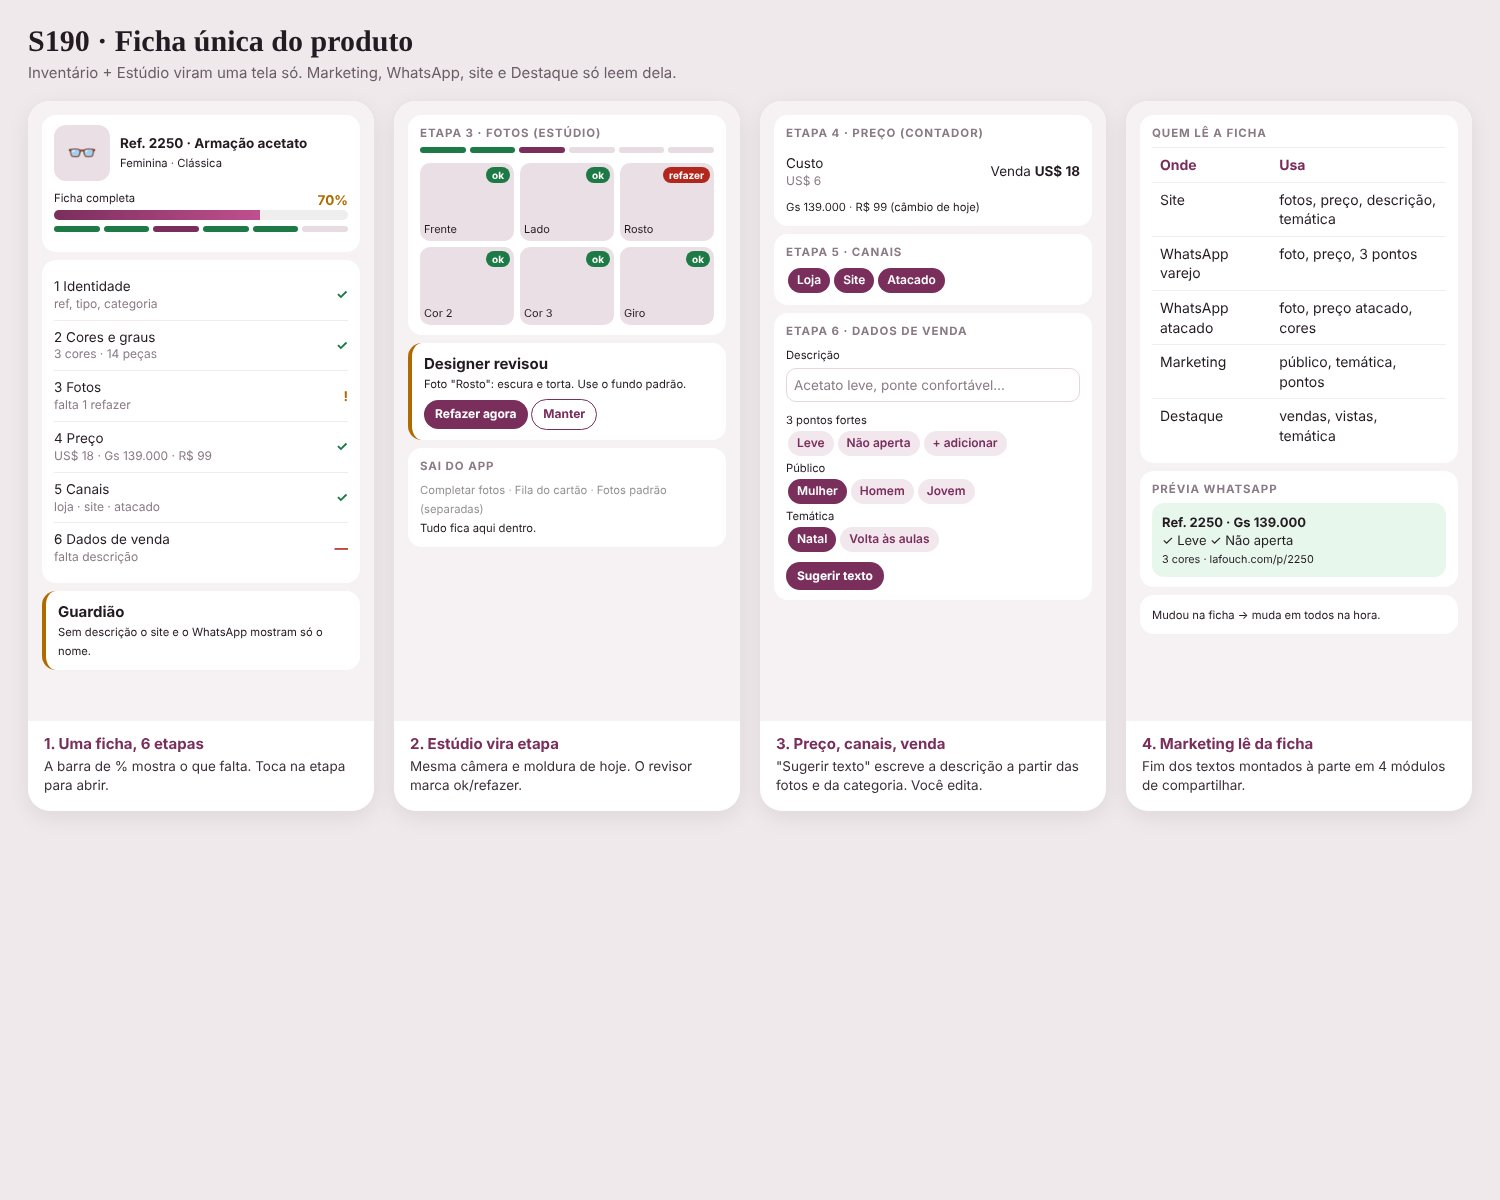
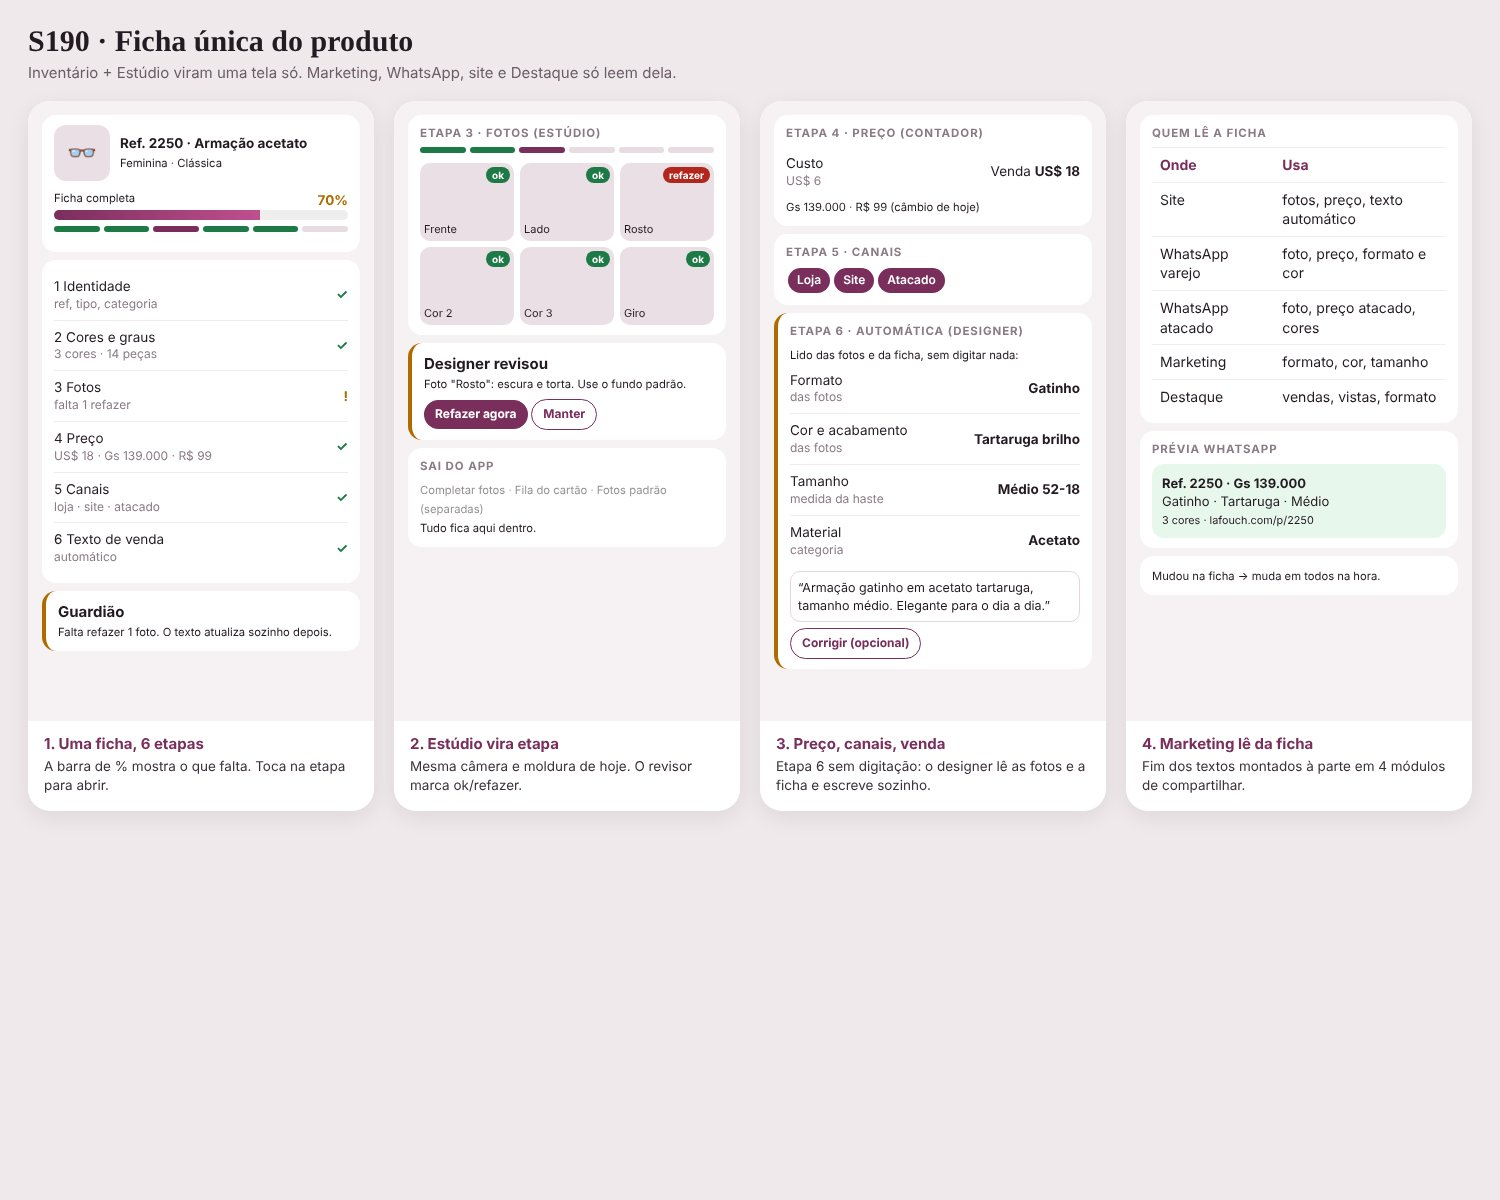
esboço S190 v2 etapa 6 automática
Claude-Session: https://claude.ai/code/session_01Vj5GPR2QjandaFr6ascRKC

diff --git a/work/s190/m1.html b/work/s190/m1.html
@@ -28,8 +28,8 @@ body{margin:0;background:#efe9ec;font:15px/1.4 Inter,system-ui,sans-serif;color:
 <div class="sl"><span>3 Fotos<small>falta 1 refazer</small></span><span class="wa">!</span></div>
 <div class="sl"><span>4 Preço<small>US$ 18 · Gs 139.000 · R$ 99</small></span><span class="ok">✓</span></div>
 <div class="sl"><span>5 Canais<small>loja · site · atacado</small></span><span class="ok">✓</span></div>
-<div class="sl"><span>6 Dados de venda<small>falta descrição</small></span><span class="bad">—</span></div></div>
-<div class="c gd"><b class="t">Guardião</b><small>Sem descrição o site e o WhatsApp mostram só o nome.</small></div>
+<div class="sl"><span>6 Texto de venda<small>automático</small></span><span class="ok">✓</span></div></div>
+<div class="c gd"><b class="t">Guardião</b><small>Falta refazer 1 foto. O texto atualiza sozinho depois.</small></div>
 </div><div class="cap"><b>1. Uma ficha, 6 etapas</b>A barra de % mostra o que falta. Toca na etapa para abrir.</div></div>
 
 <div class="f"><div class="ph">
@@ -42,22 +42,23 @@ body{margin:0;background:#efe9ec;font:15px/1.4 Inter,system-ui,sans-serif;color:
 <div class="f"><div class="ph">
 <div class="c"><h5>Etapa 4 · Preço (Contador)</h5><div class="sl"><span>Custo<small>US$ 6</small></span><span>Venda <b>US$ 18</b></span></div><small>Gs 139.000 · R$ 99 (câmbio de hoje)</small></div>
 <div class="c"><h5>Etapa 5 · Canais</h5><span class="ch on">Loja</span><span class="ch on">Site</span><span class="ch on">Atacado</span></div>
-<div class="c"><h5>Etapa 6 · Dados de venda</h5><small>Descrição</small><div style="border:1px solid #e3d7de;border-radius:10px;padding:7px;margin:4px 0 8px;color:#8a7a85">Acetato leve, ponte confortável…</div>
-<small>3 pontos fortes</small><br><span class="ch">Leve</span><span class="ch">Não aperta</span><span class="ch">+ adicionar</span><br>
-<small>Público</small><br><span class="ch on">Mulher</span><span class="ch">Homem</span><span class="ch">Jovem</span><br>
-<small>Temática</small><br><span class="ch on">Natal</span><span class="ch">Volta às aulas</span>
-<div style="margin-top:8px"><span class="bt">Sugerir texto</span></div></div>
-</div><div class="cap"><b>3. Preço, canais, venda</b>"Sugerir texto" escreve a descrição a partir das fotos e da categoria. Você edita.</div></div>
+<div class="c gd"><h5>Etapa 6 · Automática (designer)</h5><small>Lido das fotos e da ficha, sem digitar nada:</small>
+<div class="sl"><span>Formato<small>das fotos</small></span><b>Gatinho</b></div>
+<div class="sl"><span>Cor e acabamento<small>das fotos</small></span><b>Tartaruga brilho</b></div>
+<div class="sl"><span>Tamanho<small>medida da haste</small></span><b>Médio 52-18</b></div>
+<div class="sl"><span>Material<small>categoria</small></span><b>Acetato</b></div>
+<div style="border:1px solid #e3d7de;border-radius:10px;padding:7px;margin-top:6px;font-size:12.5px">“Armação gatinho em acetato tartaruga, tamanho médio. Elegante para o dia a dia.”</div>
+<div style="margin-top:6px"><span class="bt o">Corrigir (opcional)</span></div></div></div><div class="cap"><b>3. Preço, canais, venda</b>Etapa 6 sem digitação: o designer lê as fotos e a ficha e escreve sozinho.</div></div>
 
 <div class="f"><div class="ph">
 <div class="c"><h5>Quem lê a ficha</h5>
 <table class="tbl"><tr><th>Onde</th><th>Usa</th></tr>
-<tr><td>Site</td><td>fotos, preço, descrição, temática</td></tr>
-<tr><td>WhatsApp varejo</td><td>foto, preço, 3 pontos</td></tr>
+<tr><td>Site</td><td>fotos, preço, texto automático</td></tr>
+<tr><td>WhatsApp varejo</td><td>foto, preço, formato e cor</td></tr>
 <tr><td>WhatsApp atacado</td><td>foto, preço atacado, cores</td></tr>
-<tr><td>Marketing</td><td>público, temática, pontos</td></tr>
-<tr><td>Destaque</td><td>vendas, vistas, temática</td></tr></table></div>
-<div class="c"><h5>Prévia WhatsApp</h5><div class="wa2"><b>Ref. 2250 · Gs 139.000</b><br>✓ Leve ✓ Não aperta<br><small>3 cores · lafouch.com/p/2250</small></div></div>
+<tr><td>Marketing</td><td>formato, cor, tamanho</td></tr>
+<tr><td>Destaque</td><td>vendas, vistas, formato</td></tr></table></div>
+<div class="c"><h5>Prévia WhatsApp</h5><div class="wa2"><b>Ref. 2250 · Gs 139.000</b><br>Gatinho · Tartaruga · Médio<br><small>3 cores · lafouch.com/p/2250</small></div></div>
 <div class="c"><small>Mudou na ficha → muda em todos na hora.</small></div>
 </div><div class="cap"><b>4. Marketing lê da ficha</b>Fim dos textos montados à parte em 4 módulos de compartilhar.</div></div>
 </div></body></html>

diff --git a/docs/MEMORIA-PROJETO.md b/docs/MEMORIA-PROJETO.md
@@ -1843,3 +1843,4 @@ Decisões do dono sobre a tela Venda confirmada (esboço "venda_confirmada_compr
 - 12/11 09:58 DONO: APROVADOS os 4 jeitos de designer+porteiro+guardião trabalharem juntos (porteiro roda as checagens visuais; esboço aprovado vira gabarito; guardião cuida da qualidade do catálogo; resumo semanal único) e o revisor no Marketing (posts/stories/cartões/vídeos) e no Estúdio (foto aprovada/refazer). Pediu mais melhorias; perguntou se Inventário e Estúdio estão separados e como juntar (cadastro do produto único que alimenta o marketing); pediu ESTUDAR O APP INTEIRO e guardar na memória (evitar colisões, botões repetidos, redundância, lixo).
 - 12/11 10:05 DONO pediu estudo do app → criado docs/APP-COMO-FUNCIONA.md (mapa, redundâncias, código morto). Proposta S190 FICHA ÚNICA do produto (Inventário+Estúdio → Marketing lê dela): aguardando ESBOÇO/aprovação.
 - 12/11 10:10 ESBOÇO S190 FICHA ÚNICA (work/s190/s190.jpg): 6 etapas (identidade, cores/graus, fotos=Estúdio com revisor ok/refazer, preço Contador US$→Gs/R$, canais loja/site/atacado, dados de venda: descrição+3 pontos+público+temática+Sugerir texto); barra % + guardião; site/WhatsApp varejo e atacado/Marketing/Destaque só leem da ficha; somem Completar fotos, Fila do cartão, Fotos padrão e os 4 compartilhar viram 1. Aguardando aprovação.
+- 12/11 10:08 DONO: etapa 6 manual é inútil, quer o mais automático possível com o designer. S190 v2: etapa 6 automática (designer lê formato e cor/acabamento das fotos, tamanho da medida da haste, material da categoria e escreve o texto; só 'Corrigir (opcional)'). Público/temática/pontos manuais removidos. Aguardando aprovação.
